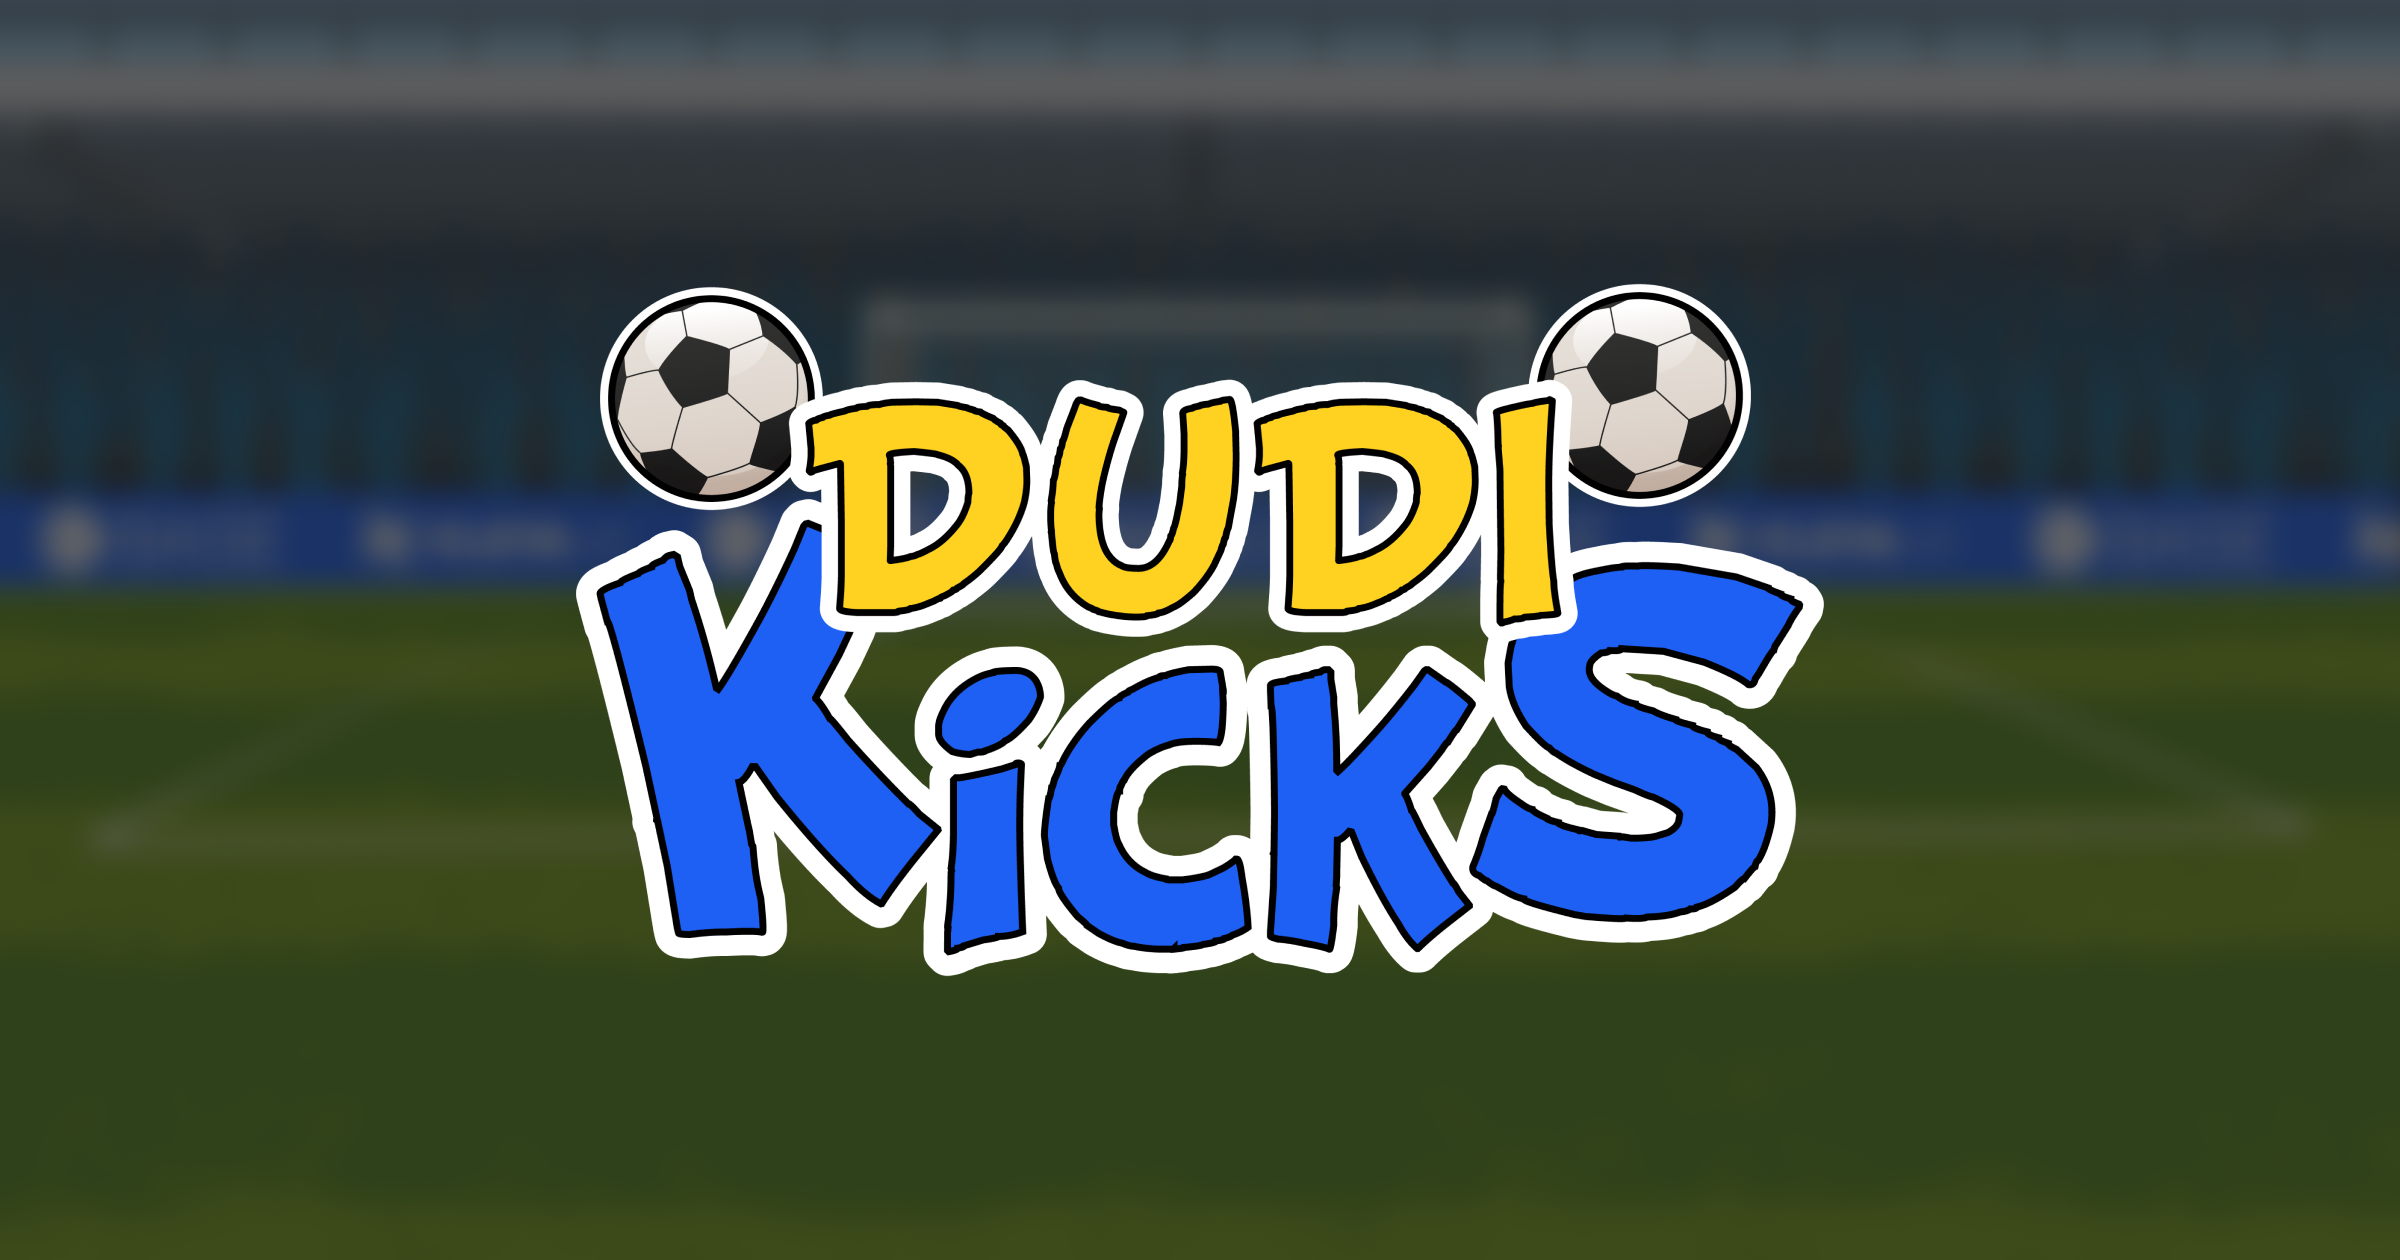
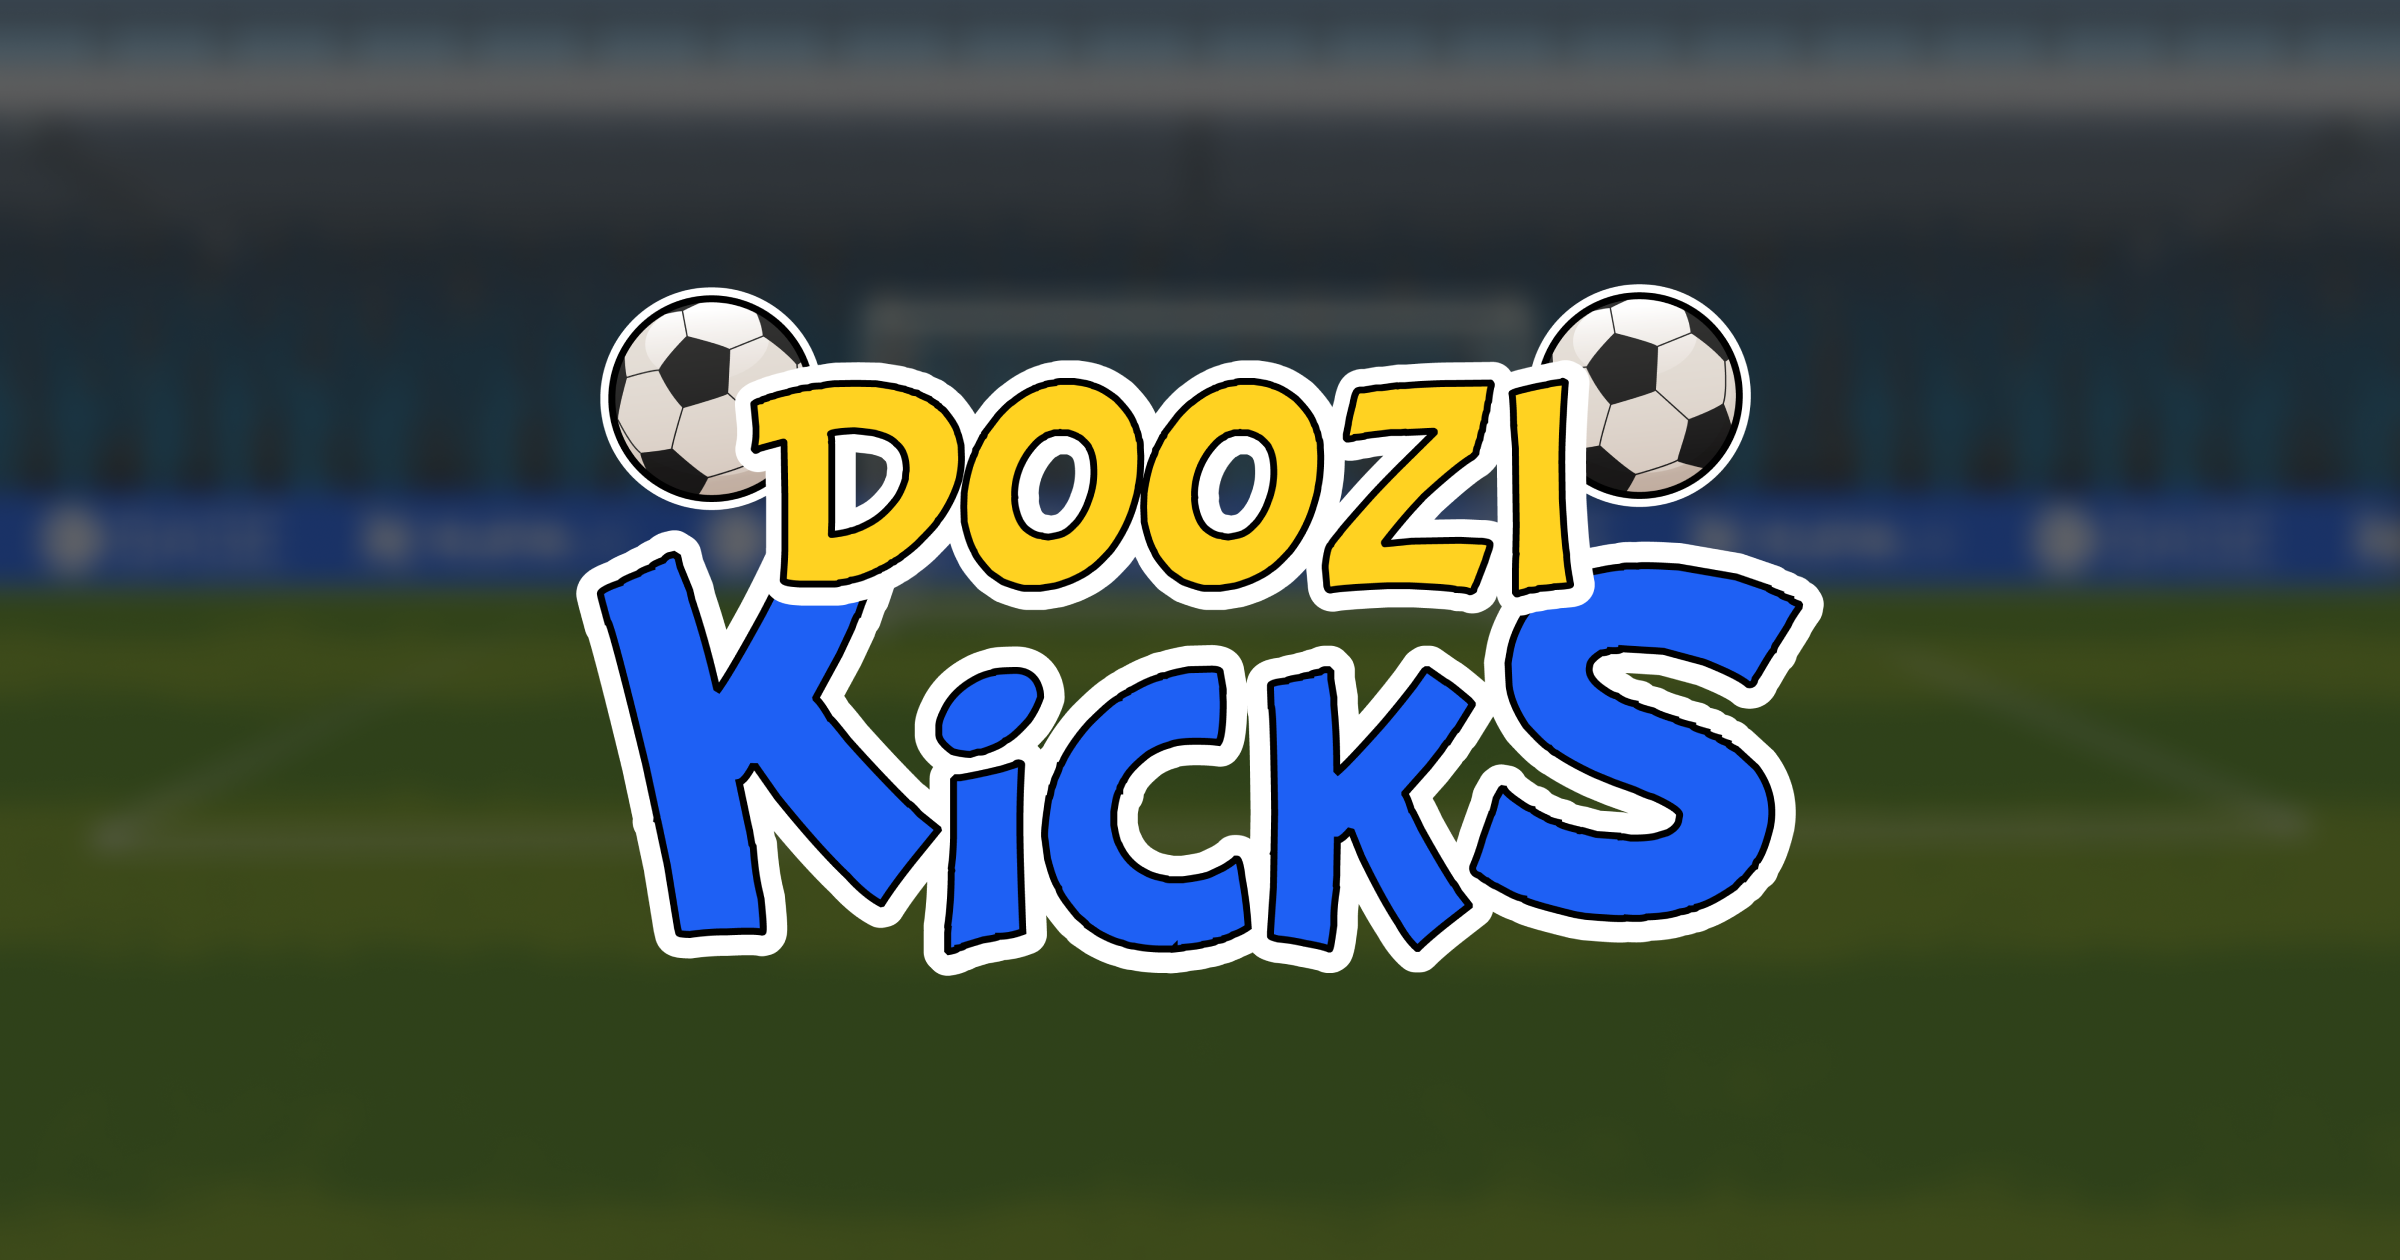
changed metadata and assets

Changed region(s): [[0.2812, 0.2786, 0.6875, 0.5262]]

diff --git a/app/.well-known/farcaster.json/route.ts b/app/.well-known/farcaster.json/route.ts
@@ -23,8 +23,9 @@ export async function GET() {
     frame: withValidProperties({
       version: "1",
       name: process.env.NEXT_PUBLIC_ONCHAINKIT_PROJECT_NAME,
-      subtitle: process.env.NEXT_PUBLIC_APP_SUBTITLE,
-      description: process.env.NEXT_PUBLIC_APP_DESCRIPTION,
+      subtitle: "Predict and Win with KP",
+      description:
+        "Earn KP by writing social posts.  Use KP to predict game outcomes and multiply rewards in Doozikicks.  Turn your content into real value.",
       screenshotUrls: [
         `${URL}/screenshot_1.png`,
         `${URL}/screenshot_2.png`,
@@ -36,7 +37,7 @@ export async function GET() {
       homeUrl: URL,
       webhookUrl: `${URL}/api/webhook`,
       primaryCategory: process.env.NEXT_PUBLIC_APP_PRIMARY_CATEGORY,
-      tags: [],
+      tags: ["social", "reward", "prediction", "game"],
       heroImageUrl: process.env.NEXT_PUBLIC_APP_HERO_IMAGE,
       tagline: process.env.NEXT_PUBLIC_APP_TAGLINE,
       ogTitle: process.env.NEXT_PUBLIC_APP_OG_TITLE,
@@ -45,4 +46,3 @@ export async function GET() {
     }),
   });
 }
-

diff --git a/config/wagmi-config.ts b/config/wagmi-config.ts
@@ -1,6 +1,6 @@
 import { http, createConfig } from "wagmi";
-import { base, baseSepolia } from "wagmi/chains";
-import { coinbaseWallet, walletConnect } from "wagmi/connectors";
+import { baseSepolia } from "wagmi/chains";
+import { coinbaseWallet } from "wagmi/connectors";
 
 const metadata = {
   name: "Dudi Kicks",
@@ -13,7 +13,9 @@ export const wagmiConfig = createConfig({
   chains: [baseSepolia], // prod + test
   multiInjectedProviderDiscovery: false,
   connectors: [
-    coinbaseWallet({ appName: "Dudi Kicks Demo" }),
+    coinbaseWallet({
+      appName: process.env.NEXT_PUBLIC_ONCHAINKIT_PROJECT_NAME || "Doozi Kicks",
+    }),
     // walletConnect({
     //   projectId: process.env.NEXT_PUBLIC_WC_ID!,
     //   metadata,

diff --git a/app/bet/page.tsx b/app/bet/page.tsx
@@ -367,7 +367,9 @@ export default function GamePage() {
           <CardContent className="grid gap-6 p-0">
             <div className="flex flex-col gap-2">
               <div className="flex items-center justify-between">
-                <p className="text-lg font-semibold text-primary">Dudi Kicks</p>
+                <p className="text-lg font-semibold text-primary">
+                  Doozi Kicks
+                </p>
                 <div>
                   <Popover>
                     <PopoverTrigger
